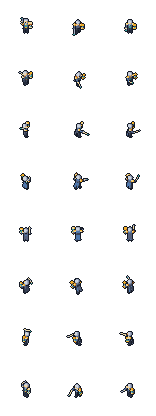
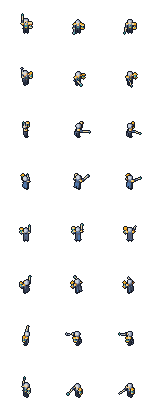
크로노스 공격 동작을 원거리로: 지휘봉 치켜들기 → 과녁 쪽으로 뻗기(사용자 2026-10-18)
크로노스는 원거리(S121 사거리 3)인데 공격 시트는 기사의 검 내려치기를 빌려 썼다. 사용자 결정으로 원거리 동작으로 바꾼다.

- tools/art/chronos.py: 공격 3프레임을 새로 정했다. 준비는 팔을 곧게 위로 뻗어 지휘봉을 치켜들고, 발사(타격 프레임)는
  팔과 지휘봉을 과녁 쪽으로 곧게 뻗고, 마무리는 조금 더 내린다. 발은 내딛지 않는다.
  탄은 그리지 않는다(게임은 공격선으로 보이고, 탄 이펙트는 4.1f 몫이다)
  - 각도: 지휘봉이 몸 실루엣 밖으로 나온 픽셀을 8방향마다 재서 격자로 골랐다(준비 126안, 마무리 36안).
    가장 적은 방향 기준 3·5·3px(기사 자세를 빌렸을 때 0·1·2px)
  - 발사 프레임만 지휘봉 끝 청록 구슬을 1.6배로 키운다(자세 값 tip, 기본 1배면 값이 그대로다)
  - 미리보기에 공격 GIF를 더했다. 보기 화면처럼 0.12·0.15·0.15초 뒤 0.58초 정지, 8방향
- art/trial/chronos/: 공격 시트와 부위 이미지를 다시 구웠다. art/trial/preview/: 시트 미리보기, chronos_attack.gif
- 기록: insights 기록에 «공격 동작을 원거리로» 절, 남은 일 완료 표시, 목록 요지

검증: 정지·걷기·쓰러짐 시트(부위 이미지 포함)·fit.json·정지 비교·걷기 GIF는 바이트까지 같다(맞춤 다시 안 함).
lint: 크로노스 공격 H5 통과(테두리 닿음 0), 걷기 H3 8방향 0·H4 OK, 정지·쓰러짐 H5 통과.
기사(hero.py)는 건드리지 않았고 걷기·공격 lint 16·24·32 통과. pyflakes 깨끗함. SPEC·src는 건드리지 않았다.

Claude-Session: https://claude.ai/code/session_01TNmXVc1TEqSctgebvT8Nyv

diff --git a/insights/2026-10-18_general_sprite.md b/insights/2026-10-18_general_sprite.md
@@ -24,7 +24,7 @@
   - 공격 8방향 × 3프레임
   - 쓰러짐 1벌 × 5프레임
   - 공격·쓰러짐은 2배 캔버스다.
-- 크로노스 자세는 기사의 자세를 그대로 쓰고 왼팔만 바꿨다. 오른팔은 검 자세 그대로 지휘봉을 들고, 왼팔은 모래시계를 띄운다.
+- 크로노스 자세는 기사의 자세를 그대로 쓰고 왼팔만 바꿨다. 오른팔은 검 자세 그대로 지휘봉을 들고, 왼팔은 모래시계를 띄운다. 공격은 뒤에 원거리 동작으로 바꿨다(아래 «공격 동작을 원거리로»).
 - 16·32px은 굽지 않았다. 유닛 24px로 확정됐기 때문이다.
 - 다시 굽기:
   ```
@@ -41,7 +41,7 @@
 | 배율·캔버스 | 배율 17.47(기사와 같다), 캔버스 26px, 발밑 기준점 (13, 19). 기사는 긴 검 때문에 32px다 |
 | lint | H5: 4장 모두 통과(팔레트 밖 색·반투명·테두리 닿음 0). H3: 걷기 윗몸 변화가 8방향 모두 0. H4: 8방향 모두 OK |
 | 반복 | 설계 5회(위 «남긴 것과 뺀 것»의 수정들). 굽기는 맞춤을 포함해 회당 약 50초다 |
-| 미리보기 | `preview/chronos_idle_cmp_24.png`(위 기사·아래 크로노스, 발밑 맞춤), `chronos_sheets_24.png`(걷기·공격·쓰러짐), `chronos_walk.gif`(남·동·북·서 8fps) |
+| 미리보기 | `preview/chronos_idle_cmp_24.png`(위 기사·아래 크로노스, 발밑 맞춤), `chronos_sheets_24.png`(걷기·공격·쓰러짐), `chronos_walk.gif`(남·동·북·서 8fps), `chronos_attack.gif`(공격 8방향, 아래 «공격 동작을 원거리로») |
 
 ### 컨셉에서 남긴 것과 뺀 것
 
@@ -55,17 +55,30 @@
 | 모래시계 | 왼손 위에 뜬 금 받침 둘과 청록 유리 둘, 컨셉의 1.3배 | 컨셉 비례로는 2×3px이었다. 손을 앞으로 내밀면 북동·북에서 모래시계가 화면상 머리 바로 뒤에 왔다. 그러면 받침이 머리 위로 나와 왕관처럼 보여서, 옆으로 벌리고 받침 꼭대기를 머리 가운데 높이 아래로 낮췄다 |
 | 광륜(천문시계 고리) | 넣지 않았다 | 몸을 두르는 고리(반지름 0.29)는 인물보다 먼저 읽혔다. 머리 뒤 반원(0.2)은 머리에서 1px 떨어진 금테가 돼 투구 테두리처럼 보였다 |
 
+## 공격 동작을 원거리로(사용자 2026-10-18)
+
+크로노스는 원거리(S121 사거리 3)인데, 공격 시트는 기사의 검 내려치기(들어올림 → 내려침 → 회복, 내려칠 때 발을 내딛는다)를 빌려 썼다. 사용자가 원거리 동작으로 바꾸기로 했다.
+
+| 지적 | 고친 것 | 결과 |
+|---|---|---|
+| 근접 내려치기 | 3프레임을 지휘자가 첫 박을 치는 동작으로 바꿨다. 준비는 팔을 곧게 위로 뻗어 지휘봉을 치켜든다. 발사(가운데, 타격 프레임)는 팔과 지휘봉을 과녁 쪽으로 곧게 뻗는다. 마무리는 조금 더 내리고 지휘봉을 바깥으로 15° 눕힌다. 발은 내딛지 않는다. 탄은 그리지 않는다. 게임은 지금 공격을 공격선(`battle_view.gd`)으로 보여 주고, 탄 이펙트는 4.1f 몫이다 | 동·서·북동·남서에서는 발사 프레임이 과녁 쪽으로 뻗은 선으로 읽힌다. 남·북에서는 과녁이 카메라 쪽·반대쪽이라 지휘봉이 아래·위로 보인다 |
+| 지휘봉이 몸에 묻힘 | 지휘봉이 몸 실루엣 밖으로 나온 픽셀을 8방향마다 재서, 가장 적은 방향의 값이 큰 각도를 격자로 골랐다(준비 126안, 마무리 36안). 팔을 벌려 비스듬히 들면(sh_r 150·ab_r 0.5) 45°에서 팔이 화면 아래로 내려와, 동·북에서 지휘봉이 머리에 묻혔다 | 가장 적은 방향 기준으로 준비·발사·마무리가 3·5·3px다. 기사 자세를 빌렸을 때는 0·1·2px였다 |
+| 쏘는 순간 | 발사 프레임만 지휘봉 끝 청록 구슬을 1.6배로 키웠다(자세 값 `tip`). 1배는 1px이라 티가 안 났고, 2배는 철퇴 머리처럼 보였다. 반 발 내딛기도 견줘 봤지만 24px에서 차이가 거의 보이지 않아 넣지 않았다 | 끝이 2px 청록으로 커진다 |
+| 동작을 볼 곳 | 보기 화면(`viewer.gd`)에 크로노스 쪽이 없어 `preview/chronos_attack.gif`를 더했다. 보기 화면처럼 0.12·0.15·0.15초 뒤 0.58초 정지하고, 8방향을 두 줄로 보인다 | 미리보기가 4장이 됐다 |
+
+검증: 정지·걷기·쓰러짐 시트(부위 이미지 포함)와 `fit.json`, 정지 비교·걷기 GIF 미리보기는 고치기 전과 바이트까지 같다. lint는 공격 H5 통과(테두리 닿음 0), 걷기 H3 8방향 0·H4 8방향 OK, 정지·쓰러짐 H5 통과다. 기사(`hero.py`)는 건드리지 않았고 lint도 그대로 통과한다. pyflakes 깨끗함.
+
 ## 판단
 
 - 사용자 결정(2026-10-18): 장군 외형은 크로노스로 한다. 정한 것은 외형뿐이었다. 같은 날 SPEC이 영웅 6명을 바꾸면서(S157) 장군 자리를 크로노스(종류 `chronos`, 이명 «시계탑의 지휘관»)가 이었다. 그래서 게임 안 이름도 크로노스이고, 모듈·시트 폴더·미리보기 이름을 `general`에서 `chronos`로 고쳤다. 형체는 그대로라 다시 구운 시트 8장(부위 이미지 포함)과 미리보기 3장이 고치기 전과 픽셀 단위로 같다. 이 기록의 파일 이름은 그날 이름 그대로 둔다.
-- (Claude 의견) 공용 뼈대는 쓸 만하다. 크로노스는 형체 함수와 왼팔 자세만 새로 썼다. 맞춤·굽기·lint·걷기 규칙(윗몸 고정)은 기사 것을 그대로 썼다. 남은 영웅 4명과 용병도 같은 길로 간다.
+- (Claude 의견) 공용 뼈대는 쓸 만하다. 크로노스는 형체 함수와 왼팔 자세, 원거리 공격 자세만 새로 썼다. 맞춤·굽기·lint·걷기 규칙(윗몸 고정)은 기사 것을 그대로 썼다. 남은 영웅 4명과 용병도 같은 길로 간다.
 - (Claude 의견) 컨셉의 상징(광륜)은 스프라이트보다 이펙트가 맞다. 게임은 이미 살아 있는 영웅 둘레에 오라 원을 그린다(S113). 크로노스의 오라 원(패시브 «가속의 오라», S158)만 시계 문자판 무늬(눈금 12개)로 그리면, 군중 속에서도 크로노스를 찾는 표지가 된다(4.1f 제안).
 - (Claude 의견) 크로노스는 기사보다 어둡다. 몸통이 남색이라 들판에서는 실루엣이 또렷하지만, 밤 장면에서는 묻힐 수 있다. 4.1d의 아군 구분 규칙(팀 색·외곽선)을 정할 때 함께 본다.
 
 ## 남은 일
 
-- [ ] 사용자 검수: 미리보기 3장. Godot 보기 화면(`viewer.gd`)에는 아직 크로노스 쪽이 없다. 이 세션에 Godot가 없어 실행해 볼 수 없어서 고치지 않았다
+- [ ] 사용자 검수: 미리보기 4장(공격 GIF 포함). Godot 보기 화면(`viewer.gd`)에는 아직 크로노스 쪽이 없다. 이 세션에 Godot가 없어 실행해 볼 수 없어서 고치지 않았다
 - [ ] 광륜을 이펙트(크로노스 오라 원의 시계 무늬)로 살릴지(4.1f)
-- [ ] 공격 동작: 크로노스는 원거리(S121 사거리 3)인데, 공격 시트는 기사의 검 내려치기를 그대로 쓴 근접 동작이다. 지휘봉을 휘둘러 쏘는 동작으로 바꿀지(사용자)
+- [x] 공격 동작: 원거리로 바꿨다(위 «공격 동작을 원거리로», 사용자 2026-10-18)
 - [x] 게임 안 이름: «크로노스»(S157, 사용자 2026-10-18 영웅 기획서 채택). 도구·시트 이름도 `chronos`로 고쳤다
 - [ ] 남은 영웅 4명(궁수·축성가·사제·마도사)의 외형

diff --git a/insights/README.md b/insights/README.md
@@ -15,6 +15,6 @@
 | 2026-10-16 | [규칙 단계 다음은 손맛 단계](2026-10-16_rules_then_game_feel.md) | 사담. 정공이 가장 재밌어야 하고, 디자인이 붙으면 규칙을 더 상세히 지시하겠다(사용자). 지금 지시는 «무엇이 가능한가», 디자인 뒤에는 «어떻게 느껴지는가». 타격감은 번쩍임·움찔·히트스톱·소리 등이 겹쳐서 생기고 그래픽 품질과는 별개. 피격 반응은 WBS 4.1에 없음 |
 | 2026-10-16 | [1차 관찰: AI가 세 관점으로 플레이](2026-10-16_first_observation.md) | WBS 3.4를 AI가 초보·숙련·개발자 세 관점으로 플레이(하네스 tools/play). VAL 41개 중 31개 대상. 숙련이 지배 전략(정문 앞 일반 타워 묶음, 6라운드 무피해·골드 2016 남음)을 찾음. 초보는 두 판 모두 1라운드 패배, 막힌 곳 대부분은 화면 안내 부족(공병 없으면 전투 중 건설이 말없이 거부 등). 개발자는 S45·U11 미구현과 F1~F12 중 11개 잔존을 확인. 사용자가 A·C·D·E·F·G·H와 교회 치료(B 대체)를 고치기로 함 |
 | 2026-10-16 | [1차 관찰 A 후보를 봇으로 재기](2026-10-16_observation_a_bot.md) | PR 4(S139) 뒤 기준선은 점수 4.347. 숙련 봇 자체가 A를 재현해 32/32 무피해, 4~6라운드는 적이 정문에 닿지도 못함. 타워 값 누진(①, 종류별 0.25)·비행 적 반격 없음(③) 모두 1라운드만 어렵게 하고 3~6라운드 새 피해는 0판 → 둘 다 채택 안 함, ④·⑤를 재기로 함(사용자). 측정 중 PR 1 이름 변경으로 깨진 봇(용병 배치 오류)을 찾아 고침. 약함 봇의 남은 하락은 PR 3 체력 1 복귀. ④(3라운드부터 적이 가장 가까운 성문으로)+⑤(후반 적 체력 ×1.15~×1.6)가 점수 1.845로 가장 낫고, 적 수를 늘리는 ⑤는 처치 보상이 따라 늘어 실패(Claude 의견) |
-| 2026-10-18 | [크로노스 스프라이트(장군 자리)](2026-10-18_general_sprite.md) | 사용자가 크로노스 컨셉을 장군 외형으로 정함(같은 날 S157에서 크로노스가 장군 자리를 이어 이름도 `chronos`로 정리). 기사의 관절 계산을 공용 뼈대 `rig()`로 꺼내고 굽기 함수가 형체를 인자로 받게 함(다시 구운 기사 24장 픽셀 동일). 크로노스 24px 정지·걷기·공격·쓰러짐, lint H3·H4·H5 통과. 45°에서는 정수리가 머리의 위 절반이라 머리칼을 올려 얼굴을 살림. f24p 자동 램프는 남색 그늘이 외곽선 색이고 금 그늘이 탁해서 손 램프. 광륜은 24px에서 금테·잡음이 돼 빼고 오라 원 이펙트로 제안 |
+| 2026-10-18 | [크로노스 스프라이트(장군 자리)](2026-10-18_general_sprite.md) | 사용자가 크로노스 컨셉을 장군 외형으로 정함(같은 날 S157에서 크로노스가 장군 자리를 이어 이름도 `chronos`로 정리). 기사의 관절 계산을 공용 뼈대 `rig()`로 꺼내고 굽기 함수가 형체를 인자로 받게 함(다시 구운 기사 24장 픽셀 동일). 크로노스 24px 정지·걷기·공격·쓰러짐, lint H3·H4·H5 통과. 45°에서는 정수리가 머리의 위 절반이라 머리칼을 올려 얼굴을 살림. f24p 자동 램프는 남색 그늘이 외곽선 색이고 금 그늘이 탁해서 손 램프. 광륜은 24px에서 금테·잡음이 돼 빼고 오라 원 이펙트로 제안. 공격은 사용자 결정으로 원거리 동작(지휘봉 치켜들기 → 과녁 쪽으로 뻗기)으로 바꾸고, 8방향 지휘봉 노출을 재서 각도를 고름(가장 적은 방향 3·5·3px) |
 | 2026-10-18 | [4.0 아트 반나절 시험](2026-10-18_art_trial.md) | Claude가 B 방식(SDF 형체 → 정사영 도트 렌더)으로 기사 8방향 정지·걷기·공격·쓰러짐(16·24·32px)과 풀↔흙 16꼴 타일을 32분에 만듦. 반복 1회 약 2.2분. H3·H4·H5·H7·M4·T3(바깥 한 칸까지 칠하면) 통과, T1은 상한 시점 1건 불합격·4회차 0건. 45°에서 뒤로 누운 몸은 선 몸과 같아 보여 옆으로 쓰러지게 함, 8fps 고정 재생은 3칸/초와 안 맞음. 사용자는 Claude 제작으로 가기로 하고 45°·외곽선 D·F24+·유닛 24px·성벽 24px를 확정, 검수 지적 4건(걷기 윗몸 흔들림·성문·흉벽·바닥 점)을 고침. 2차로 Gemini 평가 지적(성벽 면 밝기·문 깊이·바닥 경계 그늘·풀 채도·투구 앞뒤·검·발밑 그림자·성벽 겹침)을 고치고, 풀 바탕 2d472d를 F24+의 a58c27 자리에 넣음. Gemini 2차 평가 뒤 3차로 몸 크기 고정(프레임 32px)·검 자세와 마름모 칼날·열린 문 그늘·벽돌·바닥 무늬 반복을 고침 |
 | 2026-10-18 | [영웅 기획서 전면 채택과 SPEC 개정안](2026-10-18_hero_redesign.md) | 사용자가 붙여 넣은 영웅 6종(패시브+Q/W/E/R, 마나, 지점 조준, 방어력 증감) 기획서는 S95(주변 스킬)·S76(Q·W·오라)·S108(뺄셈 장갑)·S96(최대값 겹침)·출전 2명과 충돌. 사용자가 전면 채택을 고르고 D1~D6 모두 Claude 추천안을 수락: 워크3식 % 방어(장갑 적 15), 출전 3·보유 5, 오라끼리만 최대값, 키 → 클릭 조준, 해금 Q1·W2·E3·R5. 블록 수는 몸 반지름으로, 봉인은 비행·기어오르기 봉인으로 다시 해석. 축성가 자리는 베스퍼가 잇는다. 같은 날 구현(S145~S158·I141~I149, EV255~EV296 승인 대기). 봇 패널로 재 보니 숙련 봇 승률 62~88% → 100%로 쉬워짐. 같은 날 기획팀 안이라 원문대로 2차 수정: 실비아 Q 공격력 200%·덫 무제한·보호막 상한 없음·성벽은 적만 막음·전염 모든 디버프·크로노스 W 자기 포함·우클릭 자동 시전·이명, 블록 수 시스템(S159, 기본 1) 도입 → 숙련 봇 62% |
